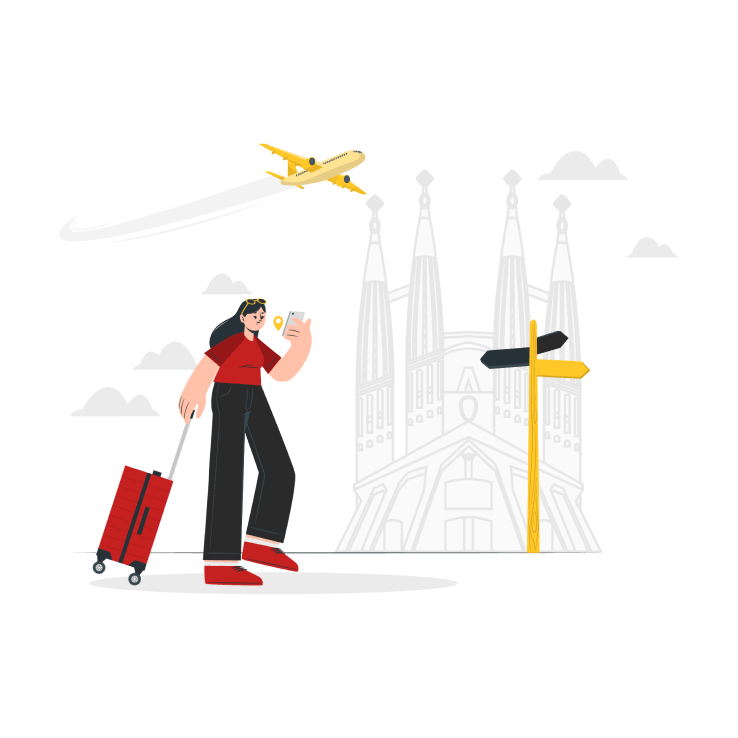
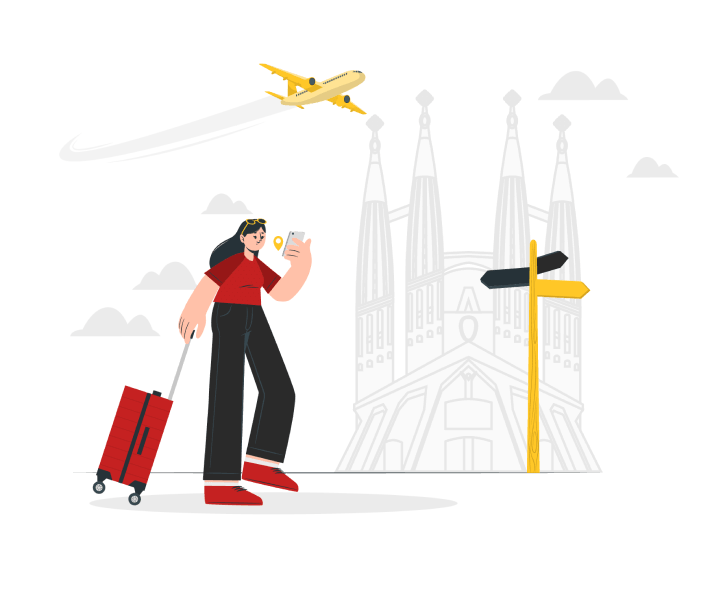
создаёт мобильную версию "Вариантов занятий"

diff --git a/source/components/molecules/option-card/option-card.scss b/source/components/molecules/option-card/option-card.scss
@@ -3,12 +3,13 @@
   padding-top: 31px;
 
   &__number-icon {
-    position: absolute;
-    top: 0;
-    left: 50%;
+    //position: absolute;
+    //top: 0;
+    //left: 50%;
     display: block;
-
-    transform: translateX(-50%);
+    margin: 0 auto;
+    //
+    //transform: translateX(-50%);
   }
 
   &__image-wrapper {
@@ -21,37 +22,46 @@
 
   &__image {
     display: block;
+    margin-top: -5px;
   }
-
-  &__image--1 {
-    margin: 0 0 0 15px;
-  }
+  //
+  //&__image--1 {
+  //  margin: 0 0 0 15px;
+  //}
 
   &__content {
-    padding: 34px 37px;
-
+    max-width: 354px;
+    margin: 0 auto;
+    padding: 34px 37px 41px;
     box-shadow: 1px 1px 20px rgba(0, 0, 0, .25);
   }
 
   &__title {
+    margin-top: 0;
     color: $color_black_1;
 
     @include nunito(17px, 25px, 700);
   }
 
   &__annotation {
+    display: block;
+    margin-bottom: 21px;
     color: $color_black_1;
 
     @include nunito(14px, 19px, 700);
   }
 
   &__description {
+    margin-top: 0;
+    margin-bottom: 22px;
     color: $color_black_1;
 
     @include nunito(13px, 18px, 300);
   }
 
-  &__more-info {
+  &__more-button {
+    display: block;
     width: 100%;
+    padding: 12px;
   }
 }

diff --git a/source/style.scss b/source/style.scss
@@ -2,12 +2,16 @@
   "mixins",
   "fonts",
   "variables",
-  "global",
-"source/components/molecules/main-nav/main-nav",
-"source/components/molecules/option-card/option-card",
-"source/components/organisms/page-header/page-header",
-  "components/organisms/first-screen",
-"source/layout/default/page-main",
-"source/pages/class-options/class-options",
-"source/components/atoms/button-secondary/button-secondary",
-"source/components/atoms/button-primary/button-primary";
+  "global";
+
+@import
+  "source/components/atoms/button-secondary/button-secondary",
+  "source/components/atoms/button-primary/button-primary",
+  "source/components/molecules/main-nav/main-nav",
+  "source/components/molecules/option-card/option-card",
+  "source/components/molecules/social-list/social-list",
+  "source/components/organisms/page-header/page-header",
+  "source/components/organisms/page-footer/page-footer",
+  "source/components/organisms/first-screen",
+  "source/layout/default/page-main",
+  "source/pages/class-options/class-options";

diff --git a/source/pages/class-options/class-options.scss b/source/pages/class-options/class-options.scss
@@ -1,17 +1,26 @@
 .class-options {
+  margin-bottom: 180px;
   padding-top: 47px;
-}
+  background-image: url("../assets/images/bg-header-image-1.png");
+  background-repeat: no-repeat;
+  background-position: 83% -112px;
+  //background-position: -524px -112px;
 
-.class-options__title {
-  max-width: 350px;
-  margin: 0 auto 121px;
+  &__title {
+    max-width: 330px;
+    margin: 0 auto 90px;
 
-  text-align: center;
-  color: $color_black_1;
+    text-align: center;
+    color: $color_black_1;
 
-  @include nunito(40px, 37px, 700);
-}
+    @include nunito(40px, 37px, 700);
+  }
 
-.class-options__list {
-  padding: 0 30px;
+  &__list {
+    padding: 0 30px;
+  }
+
+  &__item:not(:last-child) {
+    margin-bottom: 97px;
+  }
 }

diff --git a/source/components/organisms/page-footer/page-footer.scss b/source/components/organisms/page-footer/page-footer.scss
@@ -1,0 +1,16 @@
+.page-footer {
+  flex-direction: column;
+  align-items: center;
+  display: flex;
+  padding-bottom: 100px;
+
+  &__social {
+    margin-bottom: 30px;
+  }
+
+  &__copyright {
+    color: #000000;
+
+    @include nunito(13px, 120%, 300);
+  }
+}

diff --git a/source/components/molecules/social-list/social-list.scss b/source/components/molecules/social-list/social-list.scss
@@ -1,0 +1,14 @@
+.social-list {
+  overflow: hidden;
+
+  &__content {
+    display: flex;
+    margin: 0 -23px -10px 0;
+    padding-left: 0;
+  }
+
+  &__item {
+    margin-bottom: 10px;
+    margin-right: 23px;
+  }
+}

diff --git a/source/components/atoms/button-secondary/button-secondary.scss b/source/components/atoms/button-secondary/button-secondary.scss
@@ -12,7 +12,7 @@
   background-color: transparent;
   cursor: pointer;
 
-  @include nunito(16px, 22px, 400);
+  @include nunito(14px, 22px, 300);
 
   &:hover,
   &:focus {
